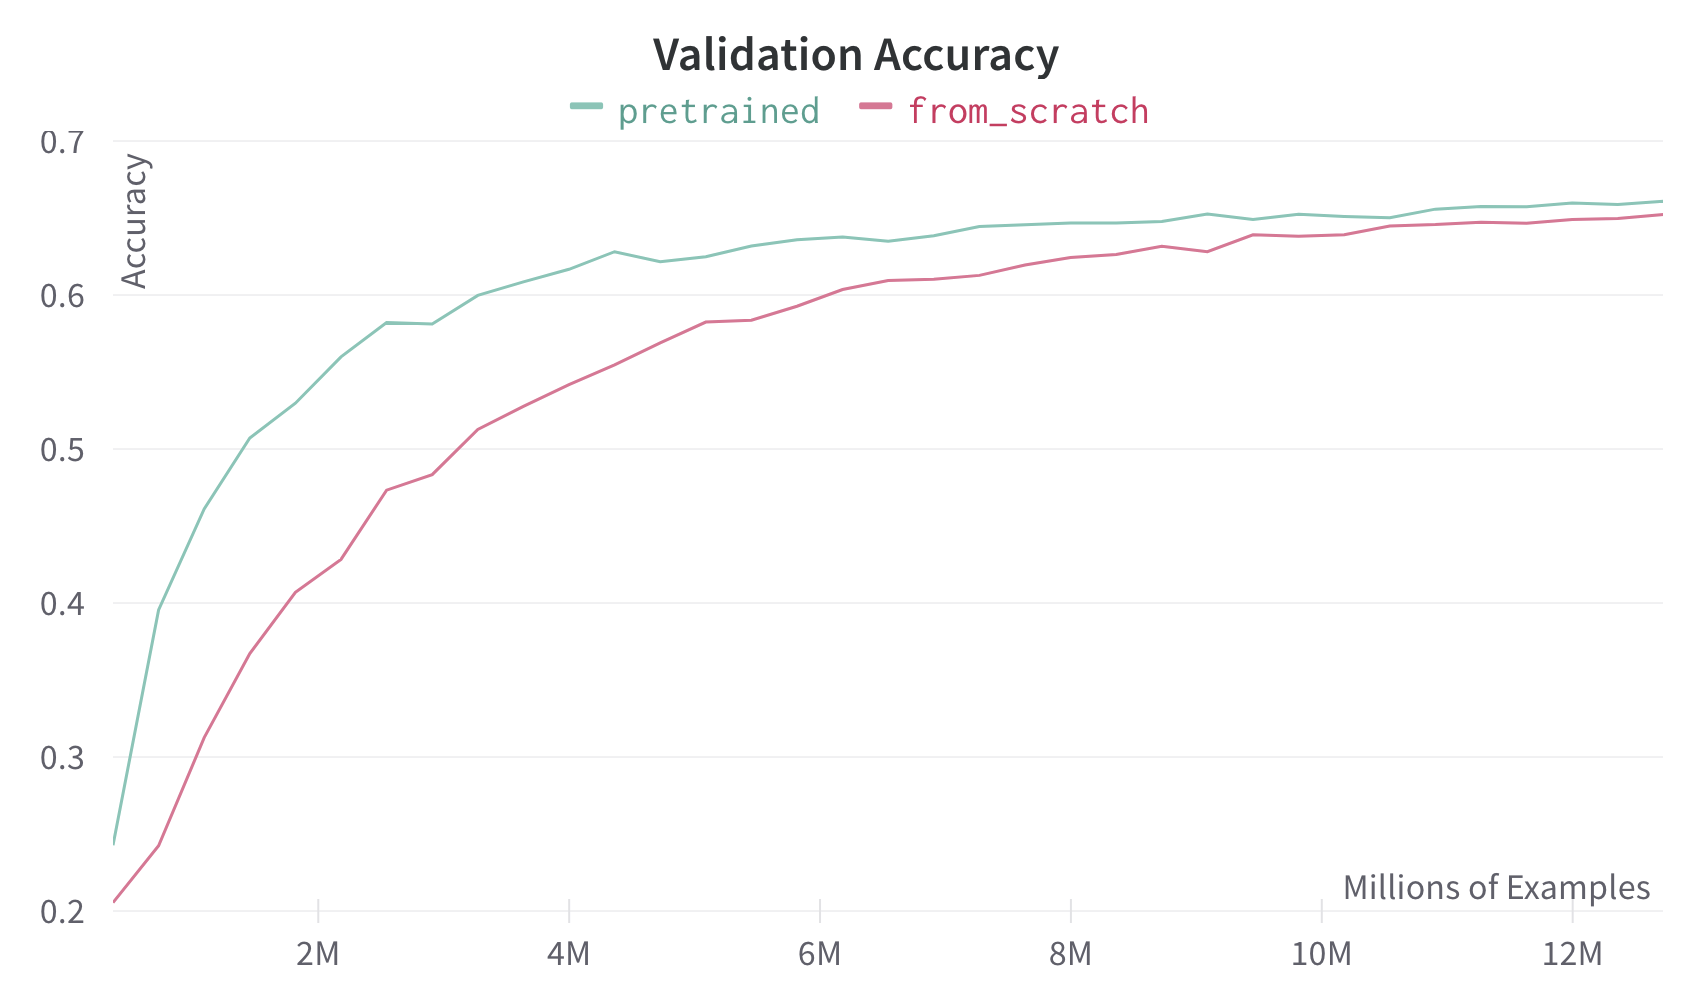
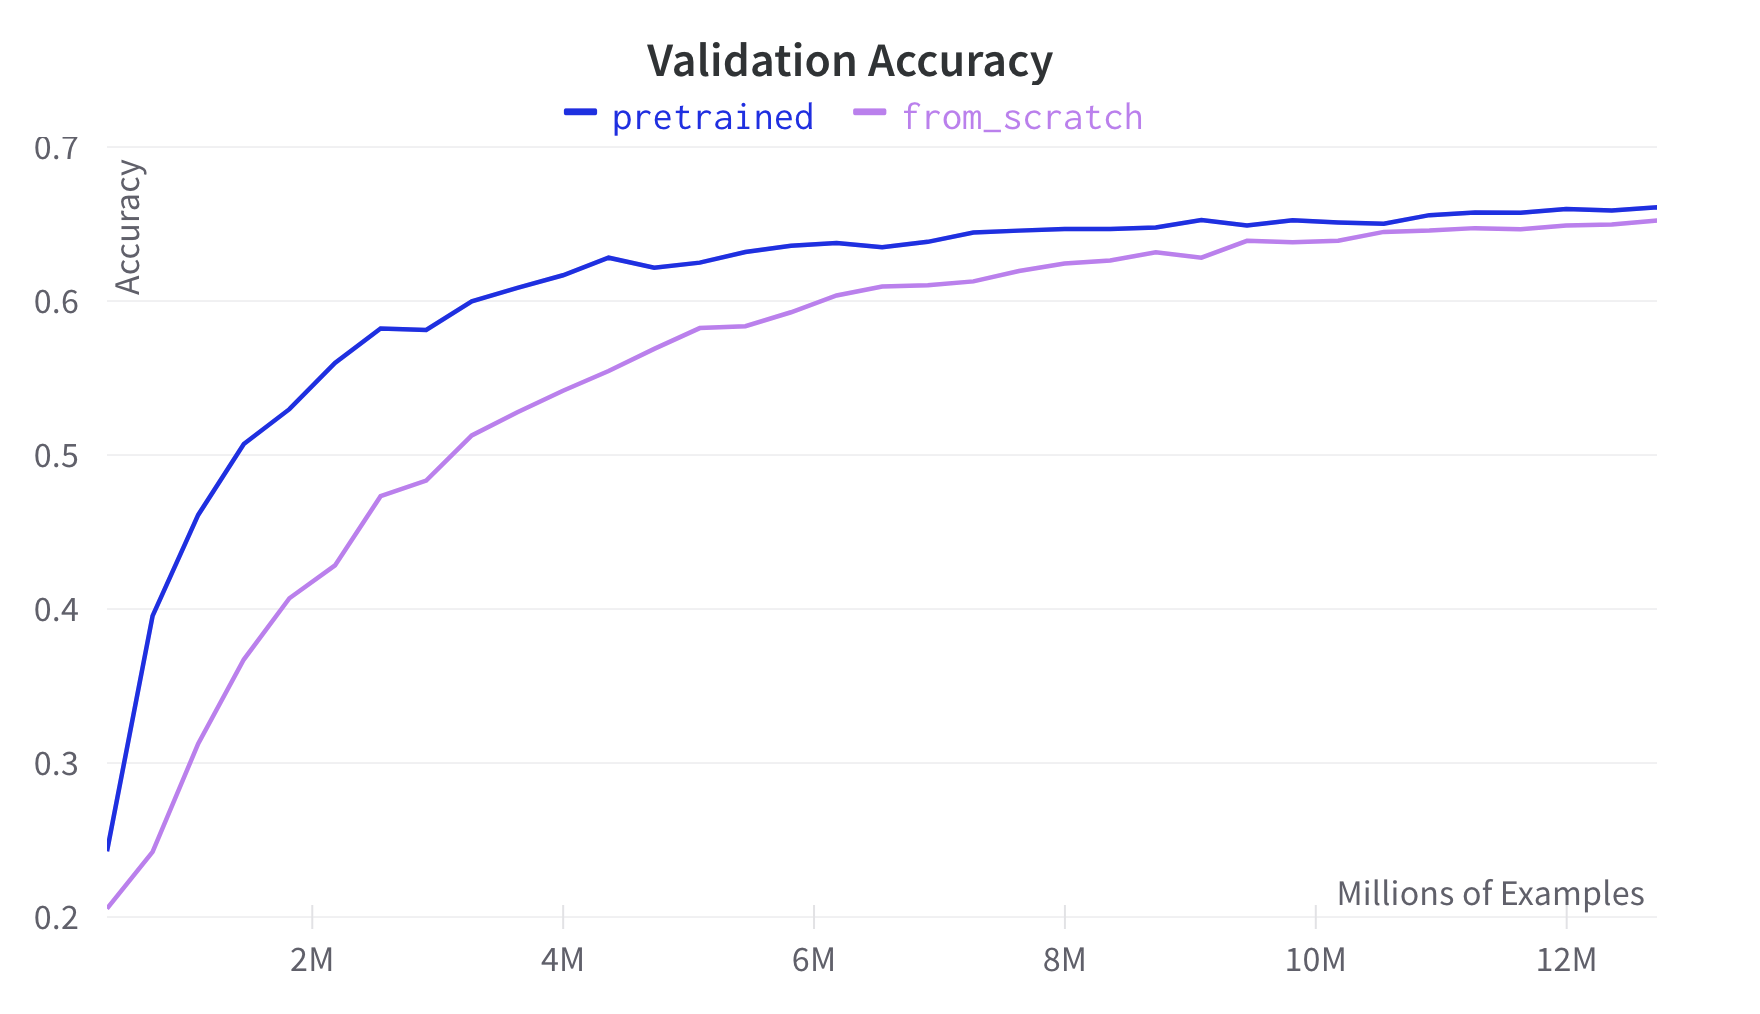
Change documentation theming to use brand colors.
GitOrigin-RevId: 02171d9e9908ae7b954060999ed86cbded3a6766

diff --git a/docs/source/conf.py b/docs/source/conf.py
@@ -45,7 +45,7 @@ html_theme_options = {
     "dark_logo": "logo-light-mode.png",
     "light_css_variables": {
         "color-brand-primary": "#373737",
-        "color-brand-content": "#373737",
+        "color-brand-content": "#2926EA",
     },
     "dark_css_variables": {
         "color-brand-primary": "#f9f9f9",
